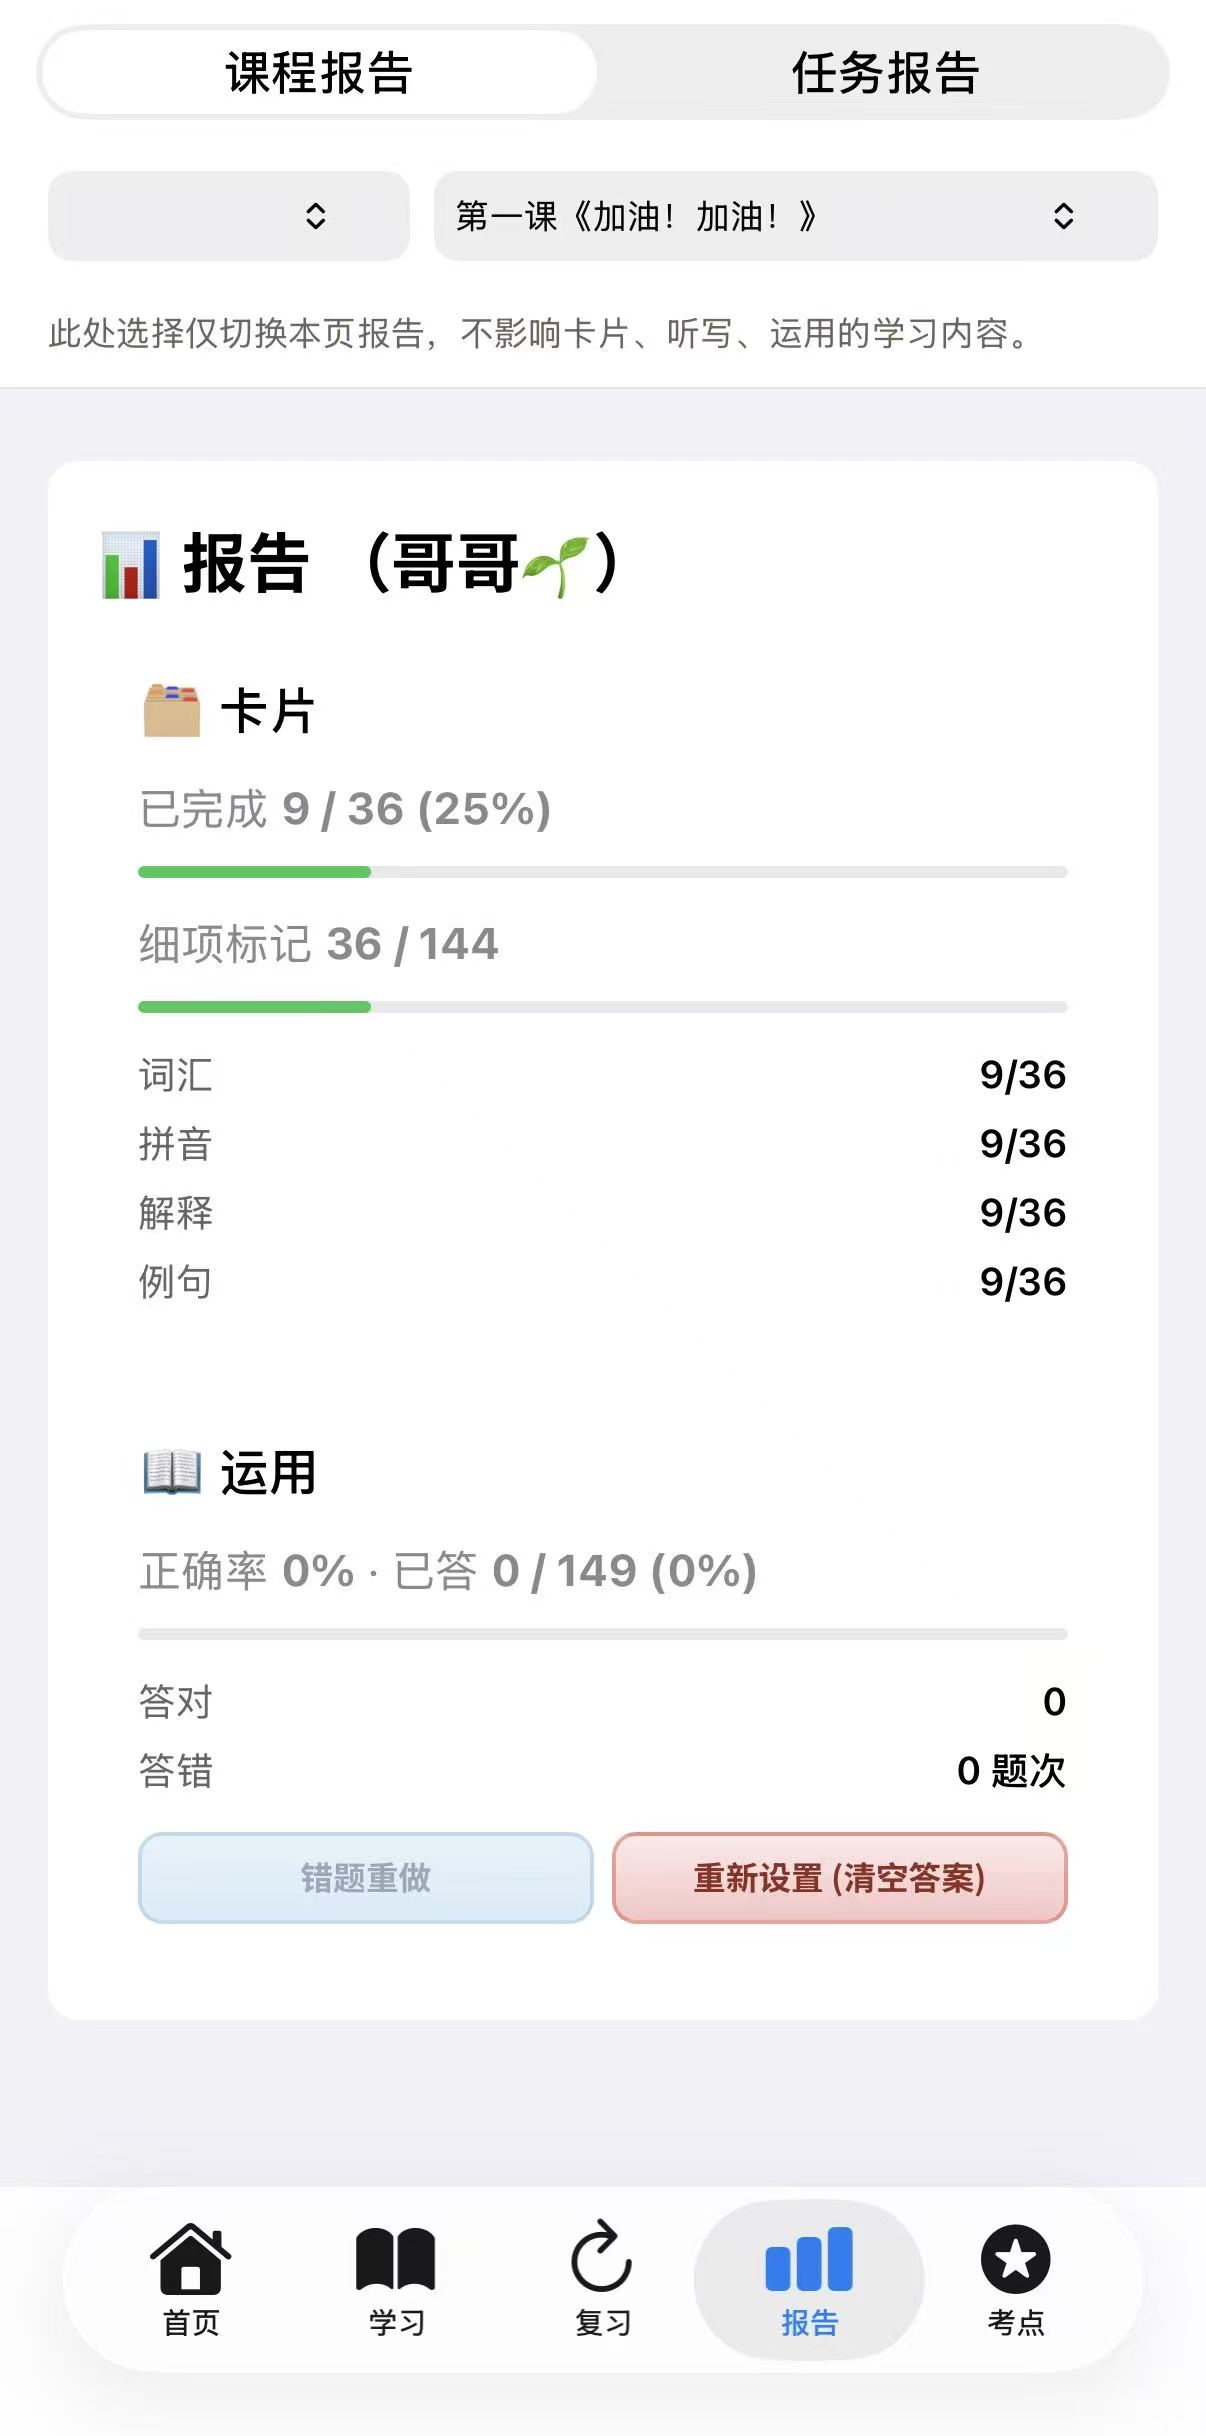
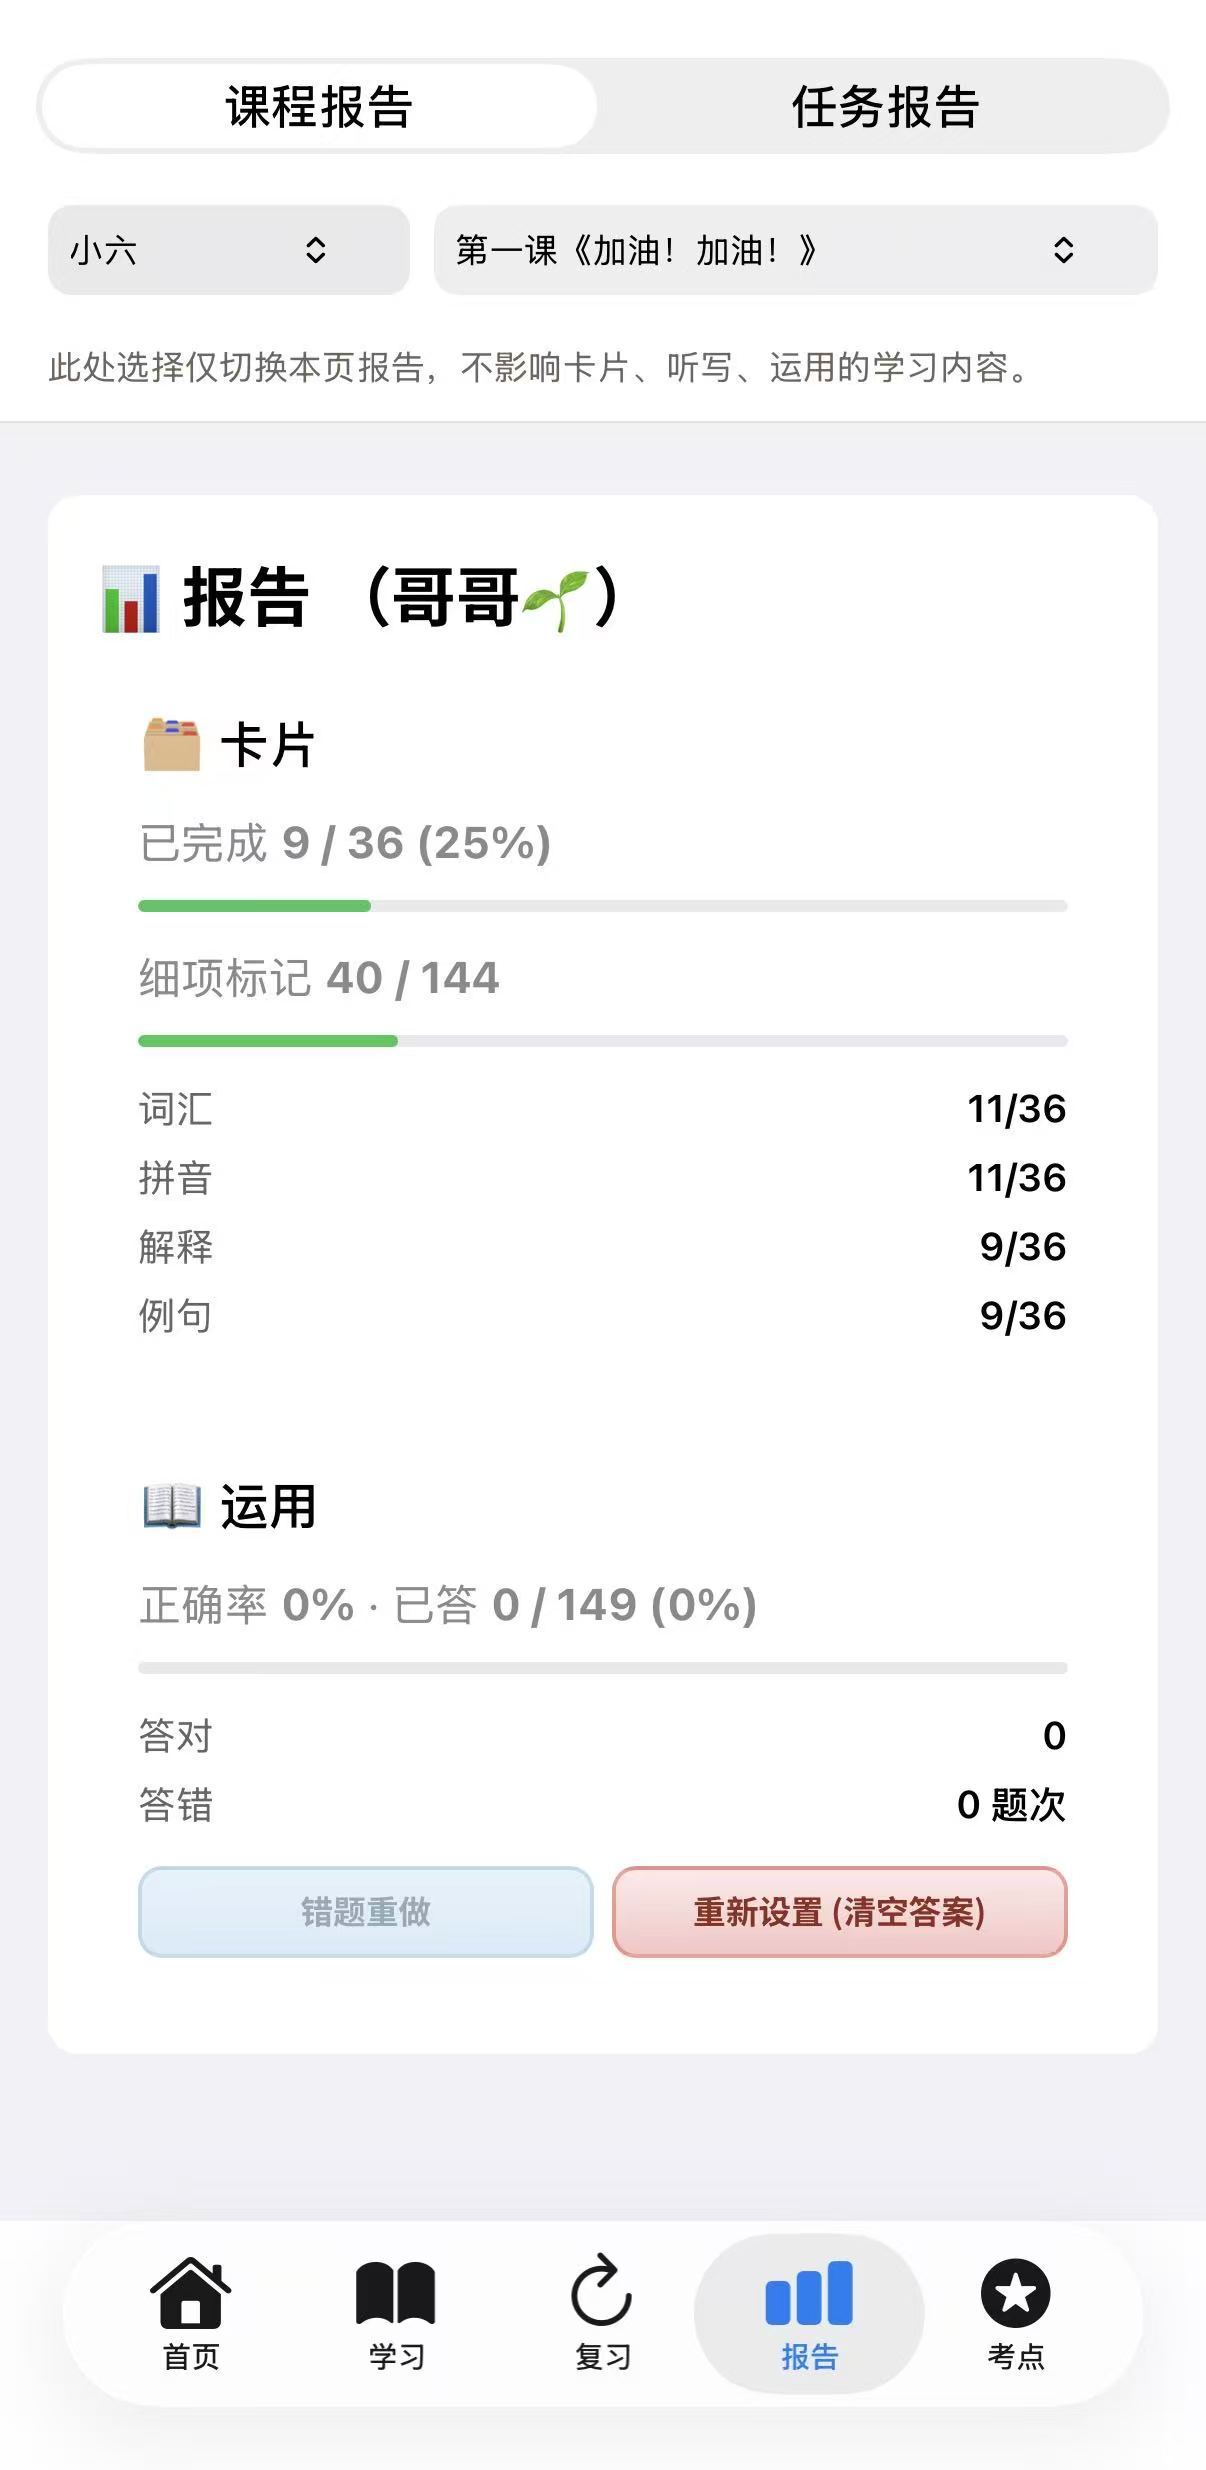
update multi profiles

diff --git a/help/multi-child-profiles.html b/help/multi-child-profiles.html
@@ -40,10 +40,13 @@
     </figure>
     <figure class="help-figure">
       <img src="images/profile-step3-edit-profile.jpg" alt="步骤3：编辑并保存档案" />
-      <img src="images/profile-step3-2-edit-profile.jpg" alt="步骤3-2：编辑并保存档案" />
       <figcaption>「编辑资料」：可以修改昵称，切换档案</figcaption>
+      <img src="images/profile-step3-2-edit-profile.jpg" alt="步骤3-2：编辑并保存档案" />
+      <figcaption>「编辑资料」：例如，可以将“默认”修改为“妹妹”，点击保存</figcaption>
     </figure>
   </div>
+
+  <p>首页的 <strong>「学习档案」</strong> 快捷切换区：</p>
   <div class="help-figure-row help-figure-row--2">
     <figure class="help-figure">
       <img src="images/profile-step4-1switch-profile.jpg" alt="步骤4：切换学习档案" />
@@ -98,14 +101,6 @@
   </div>
 
   <p>切换档案后，「报告」里显示的是<strong>当前孩子</strong>的学习数据，不会和其他孩子混在一起。</p>
-
-  <h2>配图建议</h2>
-  <ul>
-    <li>截图：<strong>「设置」</strong> 中列出多个档案（如「哥哥」「妹妹」），当前档案有勾选</li>
-    <li>截图：<strong>「切换学习档案？」</strong> 确认弹窗，文案含「切换后将加载该档案的课程与进度」</li>
-    <li>截图：首页 <strong>「学习档案」</strong> 横向切换区（多个孩子时显示）</li>
-    <li>截图：不同档案下，<strong>「报告」</strong> 中进度数据各不相同</li>
-  </ul>
 
   <h2>常见问题 / 小提醒</h2>
   <ul class="note-list">